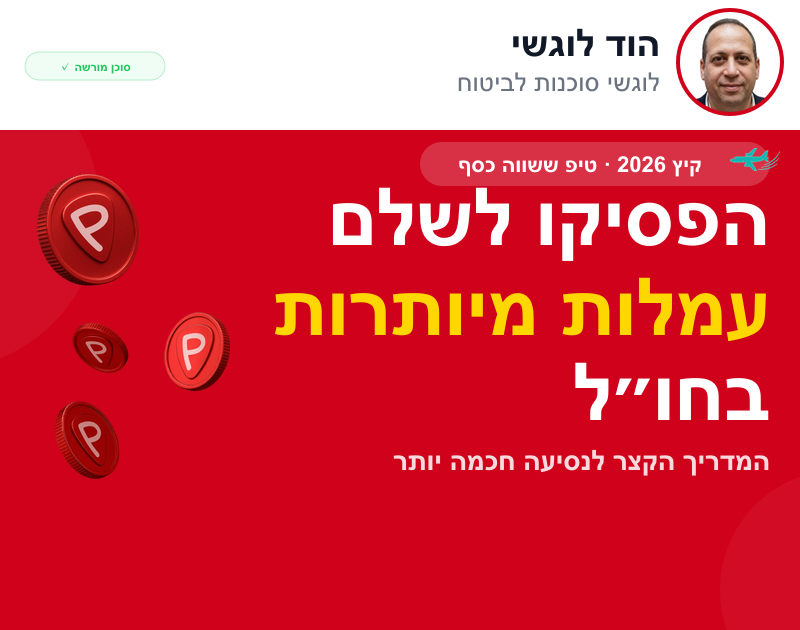
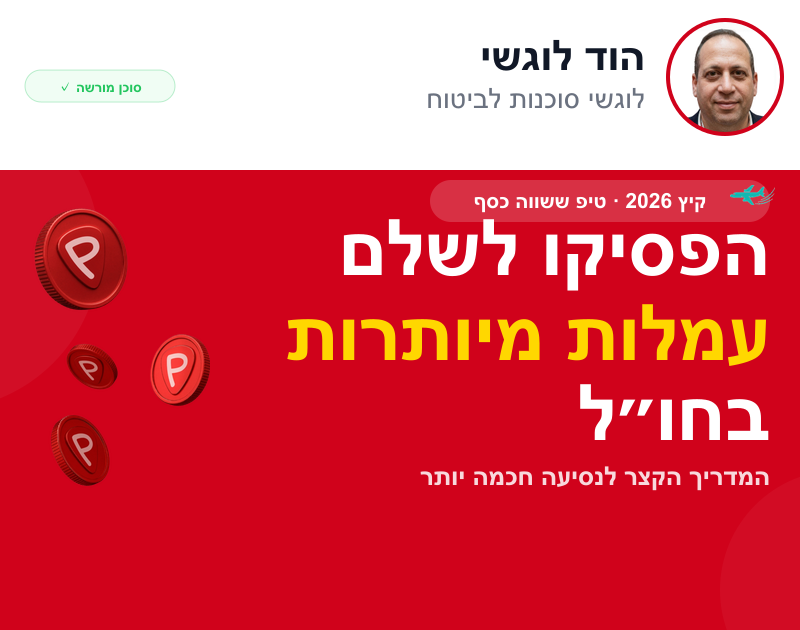
Bigger white header (170px) + tighter red text in OG preview
Agent photo 110px, name 42px, title 28px — all bigger and readable.
Red section text packed tight, no empty space at bottom.

Changed region(s): [[0.0, 0.0, 1.0, 0.7841]]

diff --git a/scripts/generate-og.js b/scripts/generate-og.js
@@ -17,20 +17,20 @@ const BASE_IMG = path.join(ROOT, 'public', 'images', 'og-base.png');
 const AGENTS_DIR = path.join(ROOT, 'public', 'images', 'agents');
 const OG_DIR = path.join(ROOT, 'public', 'images', 'og');
 
-// Layout config (800x630 base image, 130px header)
-const CIRCLE_DIAMETER = 100;
-const CIRCLE_X = 680;
-const CIRCLE_Y = 12;
+// Layout config (800x630 base image, 170px header)
+const CIRCLE_DIAMETER = 110;
+const CIRCLE_X = 670;
+const CIRCLE_Y = 22;
 const BORDER_WIDTH = 4;
 const BORDER_COLOR = '#D0021B';
 
-const NAME_X = 660;
-const NAME_Y = 18;
-const NAME_FONT_SIZE = 38;
+const NAME_X = 645;
+const NAME_Y = 28;
+const NAME_FONT_SIZE = 42;
 
-const TITLE_X = 660;
-const TITLE_Y = 65;
-const TITLE_FONT_SIZE = 26;
+const TITLE_X = 645;
+const TITLE_Y = 80;
+const TITLE_FONT_SIZE = 28;
 
 function escapeXml(str) {
   return str.replace(/&/g, '&amp;').replace(/</g, '&lt;').replace(/>/g, '&gt;').replace(/"/g, '&quot;').replace(/'/g, '&apos;');
